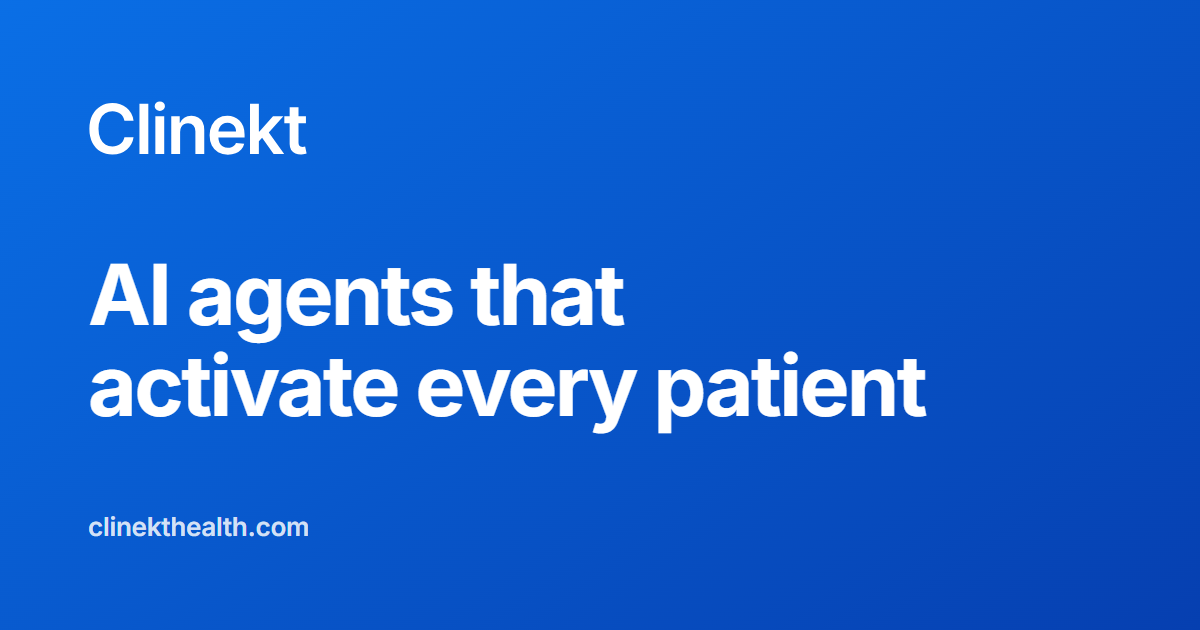
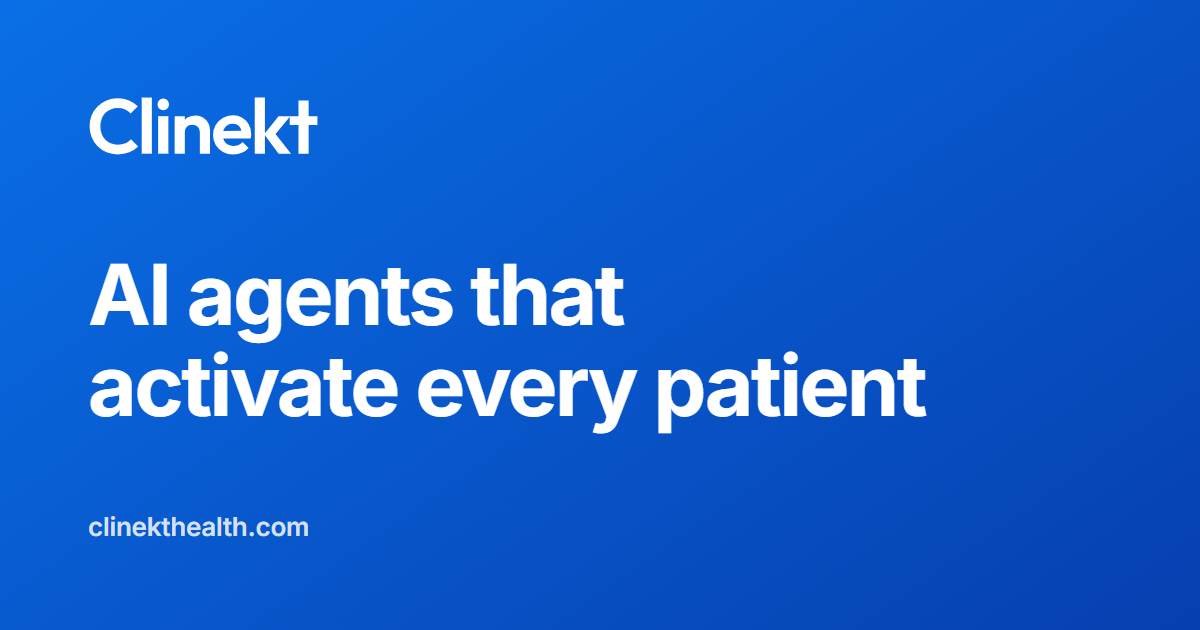
Brand: Outfit 600 wordmark in ink (final), OG card rebuilt

Changed region(s): [[0.0617, 0.1508, 0.2775, 0.2413]]

diff --git a/site-assets/media/og-clinekt-wordmark.html b/site-assets/media/og-clinekt-wordmark.html
@@ -4,7 +4,7 @@
 *{margin:0;box-sizing:border-box}
 body{width:1200px;height:630px;overflow:hidden;font-family:Inter,sans-serif}
 #og{width:1200px;height:630px;background:linear-gradient(145deg,#0A6FE6 0%,#063FB0 100%);position:relative;color:#fff}
-.wm{position:absolute;left:88px;top:100px;height:56px}
+.wm{position:absolute;left:88px;top:96px;height:60px}
 h1{position:absolute;left:88px;top:250px;font-size:84px;font-weight:700;letter-spacing:-0.03em;line-height:1.08;width:1000px}
 .sub{position:absolute;left:88px;bottom:88px;font-size:26px;font-weight:600;color:rgba(255,255,255,.82);letter-spacing:-0.01em}
 </style></head><body><div id="og">
